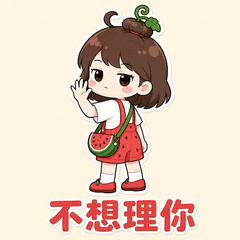
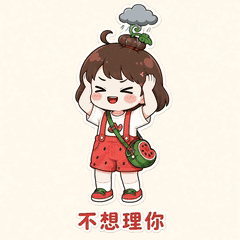
feat: redo 飞踢 (pig kicked out), 小拳拳捶你 (no tears), 不想理你, 滚 (pig rolls out), 哼

Changed region(s): [[0.2042, 0.0, 0.8167, 0.9917]]

diff --git a/src/lib/packs.ts b/src/lib/packs.ts
@@ -290,11 +290,11 @@ export const PACKS: Pack[] = [
 ];
 
 export function stickerGif(packId: string, stickerId: string) {
-  return `/stickers/${packId}/${stickerId}.gif?v=94`;
+  return `/stickers/${packId}/${stickerId}.gif?v=95`;
 }
 
 export function stickerPng(packId: string, stickerId: string) {
-  return `/stickers/${packId}/${stickerId}.png?v=94`;
+  return `/stickers/${packId}/${stickerId}.png?v=95`;
 }
 
 export function getPack(id: string) {
